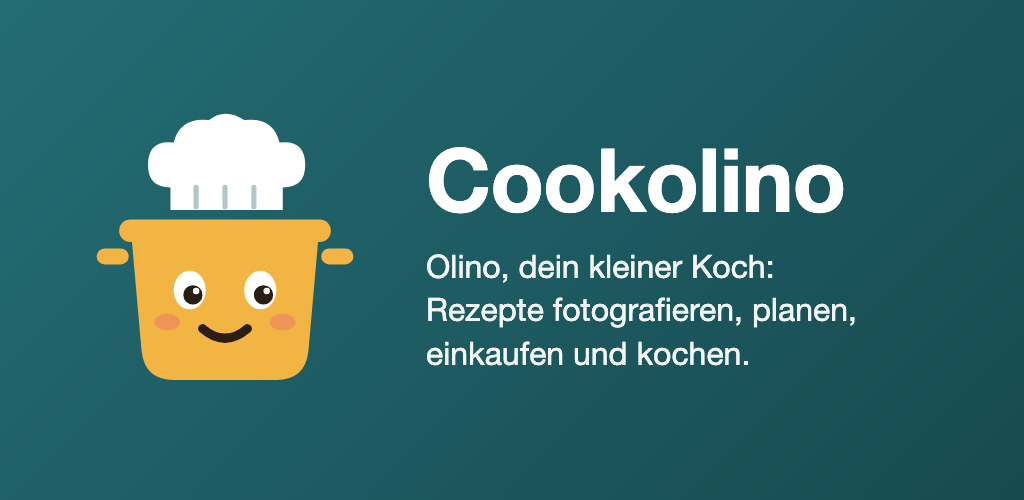
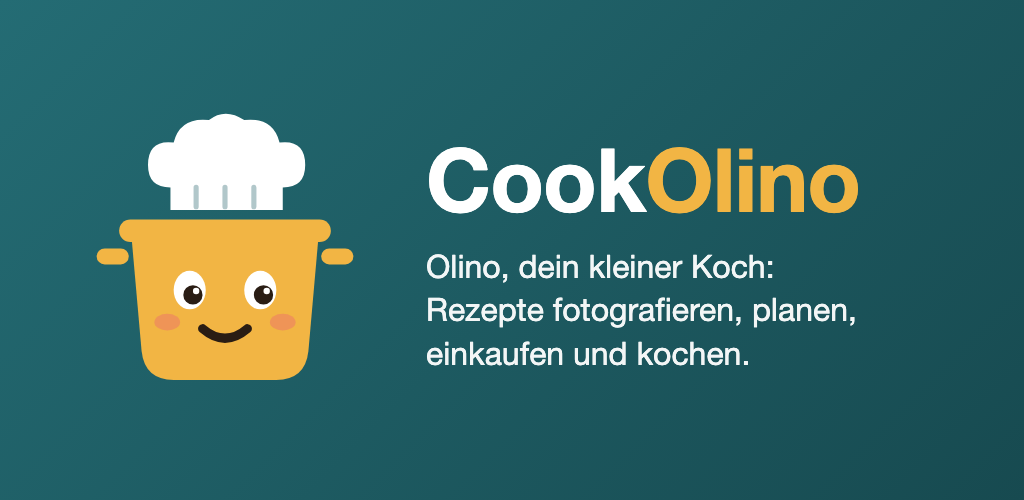
Schreibweise CookOlino, neue Titelgrafik

Changed region(s): [[0.625, 0.27, 0.8438, 0.45]]

diff --git a/datenschutz.html b/datenschutz.html
@@ -1,11 +1,11 @@
 <!doctype html>
 <html lang="de"><head><meta charset="utf-8"><meta name="viewport" content="width=device-width, initial-scale=1">
-<title>Cookolino – Datenschutz</title>
+<title>CookOlino – Datenschutz</title>
 <style>body{font-family:-apple-system,Helvetica,Arial,sans-serif;max-width:640px;margin:40px auto;padding:0 16px;line-height:1.5;color:#222}</style>
 </head><body>
-<h1>Datenschutzerklärung Cookolino</h1>
+<h1>Datenschutzerklärung CookOlino</h1>
 <p>Stand: 24. Oktober 2026</p>
-<p>Cookolino ist eine Android-App für die eigene Rezeptsammlung. Es gibt keinen Server des Entwicklers: Deine Daten liegen auf deinem Handy und bei den Diensten, die du selbst wählst.</p>
+<p>CookOlino ist eine Android-App für die eigene Rezeptsammlung. Es gibt keinen Server des Entwicklers: Deine Daten liegen auf deinem Handy und bei den Diensten, die du selbst wählst.</p>
 
 <h2>Welche Daten die App verarbeitet</h2>
 <ul>
@@ -15,7 +15,7 @@
 <li><b>Claude (Anthropic):</b> Wenn du ein Rezept einliest, anpasst oder prüfen lässt, werden Fotos, Webseiten-Text bzw. Rezepttext und deine Angaben zu Unverträglichkeiten an die Claude-API von Anthropic gesendet und dort verarbeitet. Es werden keine Namen oder Kontodaten mitgeschickt.</li>
 <li><b>Webseiten:</b> Beim Einlesen eines Rezepts per Link ruft die App die angegebene Webseite ab.</li>
 <li><b>Bring! (freiwillig):</b> Hinterlegst du deine Bring!-Anmeldung, überträgt die App auf deinen Wunsch Zutaten in deine Bring!-Einkaufsliste. E-Mail und Passwort bleiben auf dem Handy und werden nur an Bring! gesendet.</li>
-<li><b>Vorlesen und Sprachsteuerung (freiwillig):</b> Im Kochmodus kann die App Schritte mit der Sprachausgabe des Handys vorlesen. Schaltest du die Sprachsteuerung ein, hört die App über das Mikrofon auf Befehle wie «weiter» oder «zurück». Die Erkennung übernimmt die Spracherkennung von Android, wenn möglich direkt auf dem Handy; je nach Gerät kann sie dafür den Spracherkennungsdienst von Google nutzen. Cookolino selbst speichert und versendet keine Aufnahmen.</li>
+<li><b>Vorlesen und Sprachsteuerung (freiwillig):</b> Im Kochmodus kann die App Schritte mit der Sprachausgabe des Handys vorlesen. Schaltest du die Sprachsteuerung ein, hört die App über das Mikrofon auf Befehle wie «weiter» oder «zurück». Die Erkennung übernimmt die Spracherkennung von Android, wenn möglich direkt auf dem Handy; je nach Gerät kann sie dafür den Spracherkennungsdienst von Google nutzen. CookOlino selbst speichert und versendet keine Aufnahmen.</li>
 <li><b>Rezepte senden:</b> Sendest du ein Rezept, erstellt die App eine Datei, die du selbst über eine App deiner Wahl (z. B. WhatsApp oder Mail) verschickst. Bewertungen und Notizen sind darin nicht enthalten.</li>
 </ul>
 

diff --git a/index.html b/index.html
@@ -1,11 +1,11 @@
 <!doctype html>
 <html lang="de"><head><meta charset="utf-8"><meta name="viewport" content="width=device-width, initial-scale=1">
-<title>Cookolino</title>
+<title>CookOlino</title>
 <style>body{font-family:-apple-system,Helvetica,Arial,sans-serif;max-width:640px;margin:40px auto;padding:0 16px;line-height:1.5;color:#222}</style>
 </head><body>
-<img src="titel.png" alt="Cookolino – Olino, dein kleiner Koch" style="width:100%;height:auto;border-radius:16px;margin-bottom:8px">
-<h1>Cookolino</h1>
+<img src="titel.png" alt="CookOlino – Olino, dein kleiner Koch" style="width:100%;height:auto;border-radius:16px;margin-bottom:8px">
+<h1>CookOlino</h1>
 <p>Android-App für die eigene Rezeptsammlung. Rezeptfotos, Webseiten oder eigene Eingaben werden mit Claude (Anthropic) zu sauberen Rezepten aufbereitet. Die Rezepte liegen auf dem Handy und werden auf Wunsch im eigenen Google Drive (Ordner «Cookolino») oder in einem selbst gewählten Ordner gesichert. Zutaten lassen sich in die eigene Bring!-Einkaufsliste übertragen, Rezepte als Datei an andere senden.</p>
-<p>Cookolino wird derzeit nur in einem geschlossenen Test über Google Play verteilt.</p>
+<p>CookOlino wird derzeit nur in einem geschlossenen Test über Google Play verteilt.</p>
 <p><a href="datenschutz.html">Datenschutzerklärung</a></p>
 </body></html>
